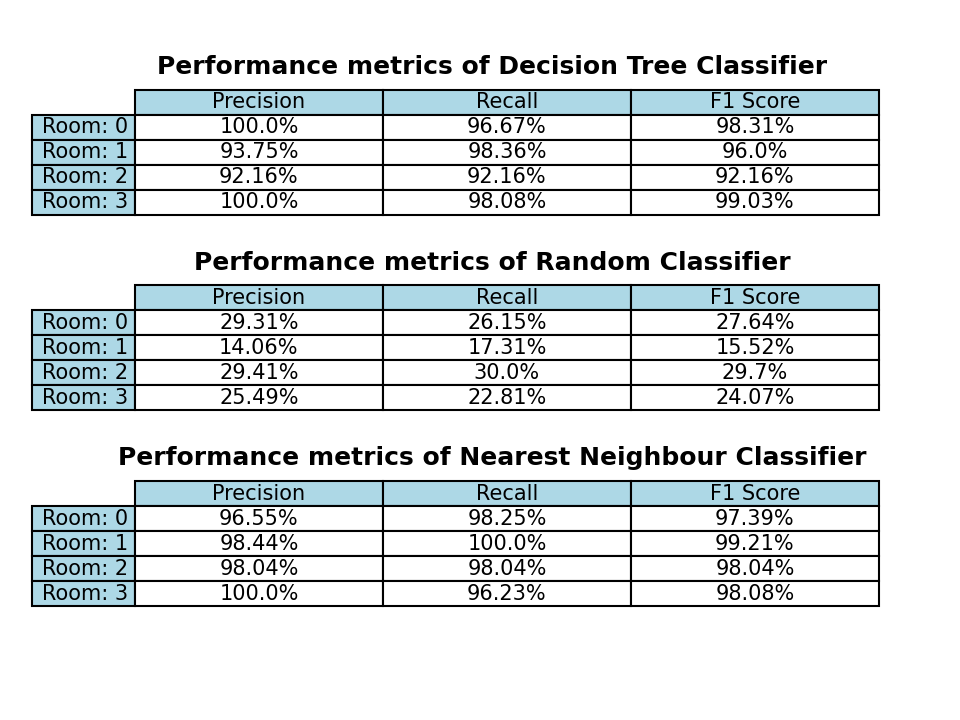
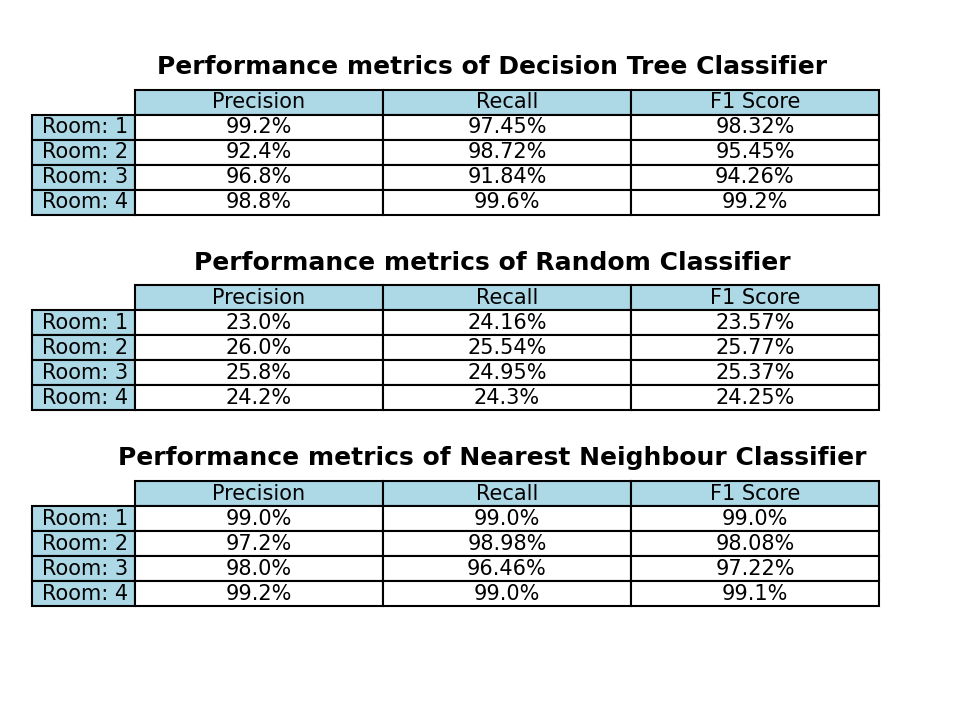
table update

diff --git a/Testbenches.py b/Testbenches.py
@@ -1,6 +1,7 @@
 import numpy as np
 import matplotlib.pyplot as plt
 from matplotlib.table import Table
+import Decision_Tree_Classifier
 import random
 import math
 
@@ -18,7 +19,7 @@ class Model_Comparison_TB():
         - All test benches must have an evaluate_internal() function to return the test and return a list of either 1 or 0, denoting a success/failiure for every test case
     '''
   
-    def __init__(self, dataset, num_trials=10, *args):
+    def __init__(self, dataset, num_trials=10, tree_depth=10, *args):
         
         Models = []
         for testMethod in args:
@@ -26,9 +27,11 @@ class Model_Comparison_TB():
         means = {}
         all_samples = {}
         for index, model in enumerate(Models):
-            
-            for trial in range(num_trials):
-                sample = model(dataset)
+            for trial in range(num_trials):       
+                if model == Decision_Tree_Classifier.Tree:
+                    sample = model(dataset, tree_depth)
+                else:
+                    sample = model(dataset)
                 results = sample.evaluate_internal()
 
                 if sample.name() not in list(all_samples.keys()):
@@ -45,7 +48,7 @@ class Model_Comparison_TB():
                 means[sample.name()].append(success_rate / len(results))
                     
                     
-                    
+        self.tree_depth = tree_depth             
         self.dataset = dataset 
         self.means = means
         self.models = Models
@@ -77,20 +80,61 @@ class Model_Comparison_TB():
         plt.grid(True)
         plt.show()
             
-    def confusion_matrix(self):
-        
-        # Make sure all models use the same test and train data:
-        train, test = split_train_test(self.dataset)
-        self.train = train
-        self.test = test
+    def confusion_matrix(self, train_given=None, test_given=None, num_folds=10):
         
         
-        for model in self.models:
+        #TODO: this did not need to use indexes, probably replace later?
+        newOrder =list(range(len(self.dataset)))
+        random.shuffle(newOrder)
+        confusion = {}
+        
+        for iteration_num in range(num_folds):
+            test_start = iteration_num * math.floor( (len(self.dataset) / num_folds) )
+            test_finish = (iteration_num + 1) * math.floor( (len(self.dataset) / num_folds) )
+            test_set = []
+            train_set = []
             
-            specific_model = model(self.dataset, train_given = train, test_given = test)
-            (labels, actual, guess) = specific_model.confusion_constructor()
-            self.confusion[specific_model.name()] = (confusion_matrix(actual, guess, class_labels=labels))
+            for i in range(test_start, test_finish):
+                test_set.append( self.dataset[ newOrder[i] ] )
+                
+            if test_start == 0:
+                
+                for i in range(test_finish, len(self.dataset)):
+                    train_set.append( self.dataset[ newOrder[i] ] )
+            
+            else:
+                for i in range(0, test_start):
+                    train_set.append( self.dataset[newOrder[i]] )
+                for i in range(test_finish, len(self.dataset)):
+                    train_set.append(  self.dataset[newOrder[i]])
         
+        
+        
+    
+            for model in self.models:
+                
+                if model == Decision_Tree_Classifier.Tree:
+                    specific_model = model(self.dataset, self.tree_depth, train_given = np.array(train_set), test_given = np.array(test_set))
+                else:
+                    specific_model = model(self.dataset, train_given = train_set, test_given = test_set)
+
+                (labels, actual, guess) = specific_model.confusion_constructor()
+                
+                
+                name = specific_model.name()
+                if name not in list(confusion.keys()):
+                    confusion[name] = (confusion_matrix(actual, guess, class_labels=labels))    
+                
+                else:
+                    toAdd = (confusion_matrix(actual, guess, class_labels=labels))
+                    for row_index, row in enumerate(toAdd):
+                        
+                        for col_index, cell in enumerate(row):
+                            
+                            confusion[name][row_index][col_index] += cell
+
+        
+        self.confusion = confusion
         #print(self.confusion)
         return self.confusion
         
@@ -123,9 +167,7 @@ class Model_Comparison_TB():
        return self.f1_scores
 
     def global_Error(self, num_folds=10):
-        
-            
-        
+
         
         #TODO: this did not need to use indexes, probably replace later?
         newOrder =list(range(len(self.dataset)))

diff --git a/Decision_Tree_Classifier.py b/Decision_Tree_Classifier.py
@@ -150,7 +150,7 @@ class Tree:
 
     #need to start on 1, not 0, so add one
     max_tree_depth += 1
-    if 1: print("Tree found with max depth {a}, spanning {b} left entries and {c} right entries".format(a=max_tree_depth, b=left_counter, c=right_counter))
+    if mode == "debug": print("Tree found with max depth {a}, spanning {b} left entries and {c} right entries".format(a=max_tree_depth, b=left_counter, c=right_counter))
 
     total_span = left_counter + right_counter
 
@@ -483,40 +483,19 @@ def find_split(dataset, split_resolution=20, split_threshold=0):
   for i in range(width - 1):
     column = dataset[:, i]
     all_splits.append(
-        best_split_in_feature(column, categories, split_resolution))
+        best_split_in_feature(column, categories, split_resolution, split_threshold=0))
 
   # finds feature with highest information gain
   best_split = [1000]
-  
-  # Just split regardless of how small the split is
-  if split_threshold == 0:
-    
-    
-    for i in range(len(all_splits)):
-    # information gain is entropy_before - entropy_after
-    # largest information gain is smallest entropy_after
-      if all_splits[i][0] < best_split[0]:
-        best_split = all_splits[i]
-        best_split.append(i)
-        
-  # Only split if threshold is met:
-  else:
-    for split_index, potential_split in enumerate(all_splits):
-      
-      if potential_split[0] < best_split[0]:
-        temporary_split = potential_split
-        temporary_split.append(split_index)
 
-        temporary_dataset_a = dataset[dataset[:, temporary_split[2]] < temporary_split[1], :]
-        temporary_dataset_b = dataset[dataset[:, temporary_split[2]] >= temporary_split[1], :]
-        
-        if len(temporary_dataset_a) >= len(dataset) * split_threshold and len(temporary_dataset_b) >= len(dataset) * split_threshold:
-          best_split = all_splits[i]
-          best_split.append(i)
-        
+    
+  for i in range(len(all_splits)):
+  # information gain is entropy_before - entropy_after
+  # largest information gain is smallest entropy_after
+    if all_splits[i][0] < best_split[0]:
+      best_split = all_splits[i]
+      best_split.append(i)
       
-      
-
 
   # split dataset according to best_split
   split = best_split[1]
@@ -529,7 +508,7 @@ def find_split(dataset, split_resolution=20, split_threshold=0):
   return dataset_a, dataset_b, split, feature
 
 
-def best_split_in_feature(column, categories, resolution):
+def best_split_in_feature(column, categories, resolution, split_threshold=0):
   """
   finds best split of a feature
   generates 'resolution' number of splits and returns the one with

diff --git a/main.py b/main.py
@@ -15,13 +15,12 @@ print("Tree depth:", depth)
 
 dataset = np.loadtxt(dataset_path)
 
-test = Decision_Tree_Classifier.Tree(dataset, max_depth = depth)
+#test = Decision_Tree_Classifier.Tree(dataset, max_depth = depth)
 #print(test.evaluate([[-68,	-58,	-65,	-65,	-76,	-87,	-82,	1]]))
-test.show()
+#test.show()
 
-#benchmark = TB.Model_Comparison_TB(dataset, 10, Decision_Tree_Classifier.Tree, Other_Classifiers.RandomClassifier, Other_Classifiers.NNClassifier)
-#benchmark.all_metrics()
-
+benchmark = TB.Model_Comparison_TB(dataset, 10, depth, Decision_Tree_Classifier.Tree, Other_Classifiers.RandomClassifier, Other_Classifiers.NNClassifier)
+benchmark.all_metrics()
 
 #benchmark.precision()
 #benchmark.plotNorm()
